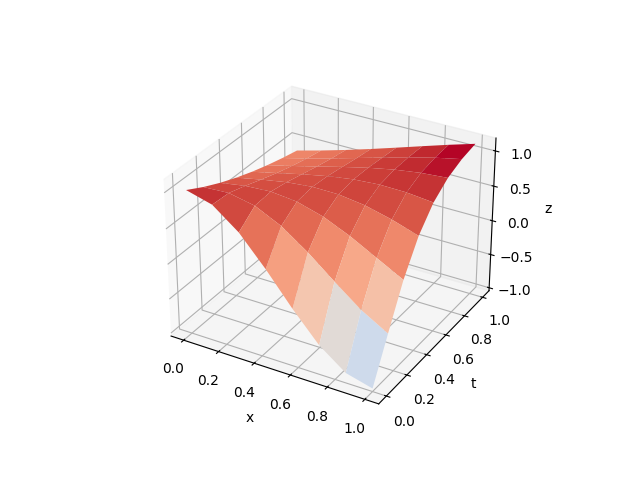
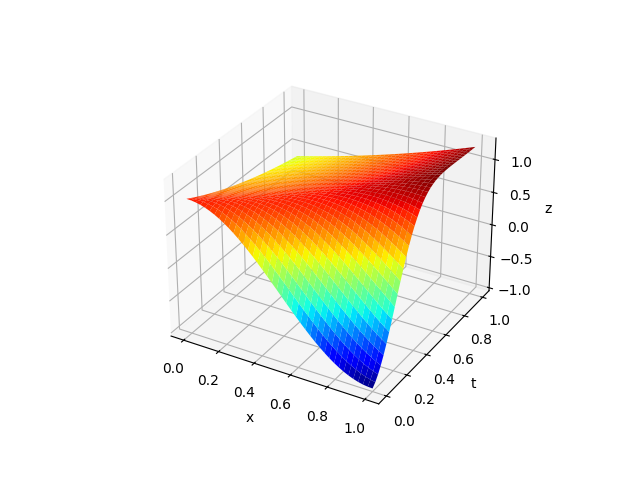
lab1

diff --git a/task3/grid.py b/task3/grid.py
@@ -16,7 +16,7 @@ class Grid:
         self.M_i = cfg.M // mpi.Get_size()
         self.offset = mpi.Get_rank() * self.M_i
 
-        self.grid = np.empty((self.M_i, cfg.K), dtype=np.float64)
+        self.grid = np.empty((cfg.K, self.M_i), dtype=np.float64)
 
         self._applyBoundaryCond()
         self._applyInitCond()
@@ -25,19 +25,19 @@ class Grid:
         if idx[1] == -1:
             return self.mpi.recv(source=self.mpi.Get_rank() - 1)
 
-        return self.grid[idx[::-1]]
+        return self.grid[idx]
 
     def __setitem__(self, idx: tuple[int, int], val: np.float64):
         if self.mpi.Get_rank() != self.mpi.Get_size() - 1:
             if idx[1] == self.M_i - 1:
                 self.mpi.send(val, self.mpi.Get_rank() + 1)
 
-        self.grid[idx[::-1]] = val
+        self.grid[idx] = val
 
     def _applyInitCond(self):
         for m in range(self.M_i):
-            self.grid[m, 0] = self.cfg.init_cond(self.offset, m)
+            self.grid[0, m] = self.cfg.init_cond(self.offset, m)
 
     def _applyBoundaryCond(self):
         for k in range(self.cfg.K):
-            self.grid[0, k] = self.cfg.boundary_cond(k)
+            self.grid[k, 0] = self.cfg.boundary_cond(k)

diff --git a/task3/task3.py b/task3/task3.py
@@ -19,24 +19,24 @@ class Solver:
         self.grid = Grid(self.cfg, self.mpi)
 
     def Solve(self):
+        x_start = 0
         if self.rank == 0:
             x_start = 1
-        else:
-            x_start = 0
 
         for t in range(self.cfg.K - 1):
             for x in range(x_start, self.grid.M_i):
                 self._implicitLeftCorner(t, x)
 
+        b = np.ascontiguousarray(self.grid.grid.transpose())
+
         if self.rank == 0:
             res = np.empty((self.cfg.M, self.cfg.K), dtype=np.float64)
-            self.mpi.Gather(self.grid.grid, res, root=0)
+            self.mpi.Gather(b, res, root=0)
 
-            DrawSolution(res, self.cfg)
-            # print(res)
+            DrawSolution(res.transpose(), self.cfg)
             return
 
-        self.mpi.Gather(self.grid.grid, None, root=0)
+        self.mpi.Gather(b, None, root=0)
 
     def _implicitLeftCorner(self, t: int, x: int):
         self.grid[t + 1, x] = (

diff --git a/task3/draw.py b/task3/draw.py
@@ -1,7 +1,7 @@
-from mpl_toolkits import mplot3d
 import numpy as np
 import matplotlib.pyplot as plt
 from matplotlib import cm
+from mpl_toolkits.mplot3d import Axes3D
 
 import numpy.typing as npt
 from config import Config
@@ -12,11 +12,10 @@ def DrawSolution(res: npt.NDArray[np.float64], cfg: Config):
     X = np.linspace(cfg.x_0, cfg.x_1, cfg.M)
     T = np.linspace(cfg.t_0, cfg.t_1, cfg.K)
     x, t = np.meshgrid(X, T)
-    print(res)
 
     fig, ax = plt.subplots(subplot_kw=dict(projection="3d"))
-    # ax.view_init(30, 100)
-    ax.plot_surface(x, t, res.transpose(), vmin=res.min() * 2, cmap=cm.coolwarm)
+    # ax.view_init(50, 15)
+    ax.plot_surface(x, t, res, vmin=res.min(), cmap=cm.jet)
 
     ax.set_xlabel("x")
 

diff --git a/task3/config.py b/task3/config.py
@@ -3,8 +3,8 @@ import numpy as np
 
 class Config:
 
-    K = 8  # time steps
-    M = 8  # coord steps
+    K = 40  # time steps
+    M = 40  # coord steps
 
     t_0 = np.float64(0.0)
     t_1 = np.float64(1.0)
